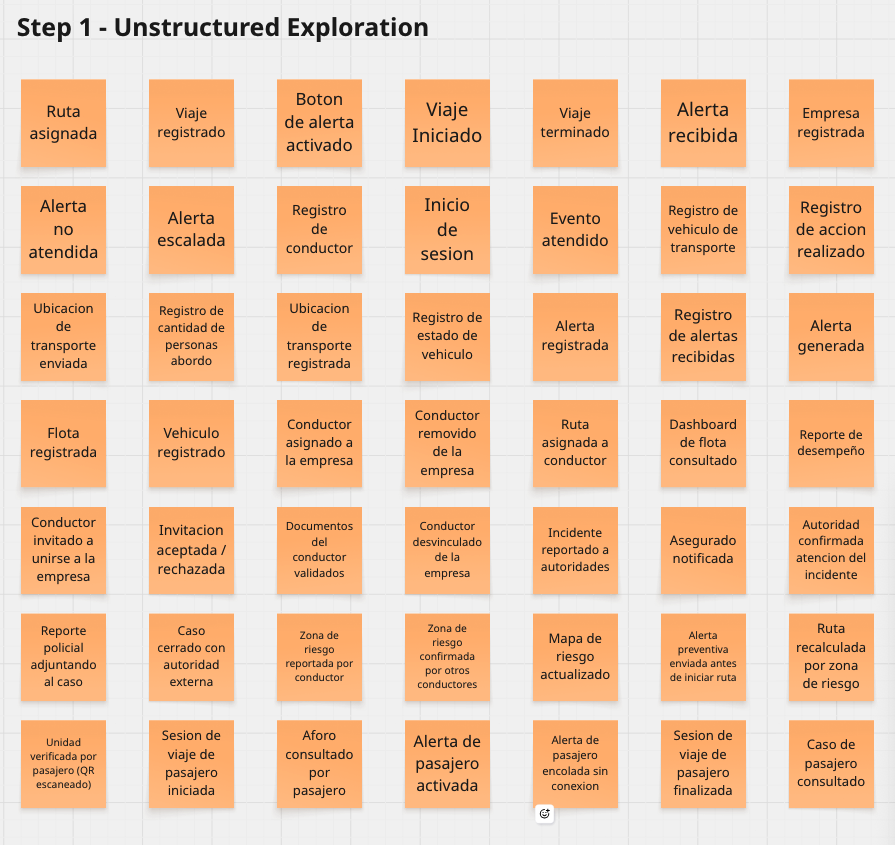
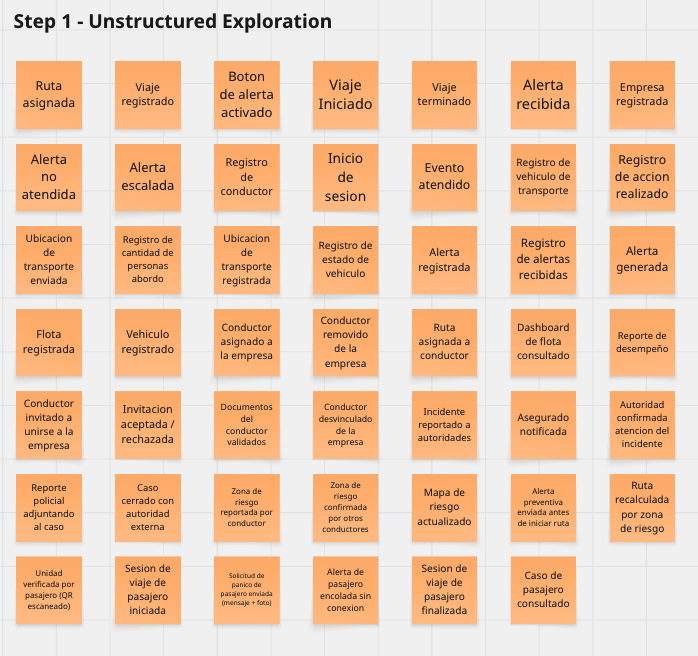
fix:added changes in data for event storming new img also added

diff --git a/report/02-chapter2.md b/report/02-chapter2.md
@@ -759,21 +759,17 @@ relaciones y patrones de integración entre todos los contexts identificados.
 
 El proceso de EventStorming de nivel general se desarrolló en la sección
 2.3.5 (Big Picture EventStorming), donde se identificaron los eventos de
-negocio para los flujos de generación y atención de alertas, gestión de
-flota, escalamiento externo, prevención por zonas de riesgo y verificación de
-pasajeros. A partir de ese modelo, el equipo avanzó hacia un análisis de
-mayor detalle para identificar los Bounded Contexts candidatos de la
-solución.
+negocio para los flujos de emergencia del conductor, registro y viaje del
+pasajero, solicitudes de pánico de pasajeros con umbral y aprobación de la
+empresa, gestión de flota, escalamiento externo y prevención por zonas de
+riesgo. A partir de ese modelo, el equipo avanzó hacia un análisis de mayor
+detalle para identificar los Bounded Contexts candidatos de la solución.
 
 <img src="../docs/bigPicture/Step 1.png">
 
-<img src="../docs/bigPicture/Step 2p1.png">
+<img src="../docs/bigPicture/Step 2.png">
 
-<img src="../docs/bigPicture/Step 2p2.png">
-
-<img src="../docs/bigPicture/Step 3p1.png">
-
-<img src="../docs/bigPicture/Step 3p2.png">
+<img src="../docs/bigPicture/Step 3.png">
 
 #### 2.5.1.1. Candidate Context Discovery
 
@@ -790,10 +786,16 @@ Como resultado, se identificaron siete Bounded Contexts candidatos:
 | 1 | Identity & Access Management | — (soporte transversal) |
 | 2 | Fleet & Workforce Management | Conductor asignado a la empresa |
 | 3 | Trip & Location Tracking | Viaje iniciado |
-| 4 | Passenger Journey & Occupancy | Unidad verificada por pasajero |
-| 5 | Safety Case Management | Botón de alerta activado |
+| 4 | Passenger Identity & Journey | Unidad verificada por pasajero |
+| 5 | Safety Case Management | Botón de alerta activado (conductor) / Grupo aprobado por supervisor (pasajero) |
 | 6 | External Escalation | Alerta escalada |
 | 7 | Risk Zone Intelligence | Zona de riesgo confirmada por otros conductores |
+
+Safety Case Management presenta dos eventos pivotales porque la emergencia
+puede originarse por dos caminos: la activación directa del conductor, que la
+crea de inmediato, y la aprobación del supervisor sobre un grupo de
+solicitudes de pasajeros que alcanzó el umbral. En ambos casos, la
+responsabilidad pasa a la empresa, que atiende la emergencia.
 
 El evento "Alerta escalada" (Safety Case Management) es el punto de conexión
 más claro con "Incidente reportado a autoridades" (External Escalation): ahí
@@ -807,7 +809,7 @@ independientes en lugar de fusionarlos.
 
 Para visualizar cómo colaboran los Bounded Contexts candidatos al resolver
 los casos de uso principales del negocio, el equipo aplicó la técnica de
-Domain Storytelling sobre cuatro historias representativas, seleccionadas
+Domain Storytelling sobre cinco historias representativas, seleccionadas
 por involucrar la interacción de más de un context.
 
 **Historia 1 — Conductor inicia un viaje:** el conductor inicia sesión en
@@ -818,34 +820,51 @@ ubicación.
 
 <img src="../docs/domainStorytelling/historia-1-conductor-inicia-viaje.jpg">
 
-**Historia 2 — Pasajero verifica la unidad y consulta aforo:** Passenger
-Journey & Occupancy consulta a Trip & Location Tracking si la unidad
-escaneada tiene un viaje activo; al confirmarse, crea la sesión de viaje del
-pasajero y consulta el aforo actual.
+**Historia 2 — Pasajero se registra, verifica el bus e inicia su viaje:** el
+pasajero registra su cuenta con DNI, foto de rostro y contraseña en Passenger
+Identity & Journey, que entrega sus credenciales a Identity & Access
+Management para el inicio de sesión. Luego escanea el QR del bus; Passenger
+Identity & Journey consulta a Trip & Location Tracking si el bus tiene un
+turno activo y, al confirmarse, crea el viaje del pasajero. Durante el viaje,
+Trip & Location Tracking provee la ubicación del bus para evaluar el cierre
+automático cuando el pasajero se aleja.
 
-<img src="../docs/domainStorytelling/historia-2-pasajero-verifica-unidad.jpg">
+<img src="../docs/domainStorytelling/historia-2-pasajero-verifica-unidad.png">
 
-**Historia 3 — Se activa una alerta de pánico:** el conductor o el pasajero
-activan el botón de pánico en Safety Case Management, que consulta la
-ubicación más reciente a Trip & Location Tracking y notifica el nuevo caso a
-Fleet & Workforce Management (Operations Central), quien registra la acción
-realizada.
+**Historia 3 — El conductor activa una emergencia inmediata:** el conductor
+activa el botón de pánico en Safety Case Management, que consulta la
+ubicación más reciente a Trip & Location Tracking, activa una emergencia
+Critical sin umbral ni aprobación y la notifica con prioridad máxima a Fleet
+& Workforce Management, cuyo supervisor inicia la atención y registra el
+resultado.
 
-<img src="../docs/domainStorytelling/historia-3-alerta-panico.jpg">
+<img src="../docs/domainStorytelling/historia-3-alerta-panico.png">
 
-**Historia 4 — Una alerta no atendida se escala externamente:** Safety Case
-Management detecta el evento pivotal "Alerta escalada" y notifica a External
-Escalation, que reporta el incidente a la autoridad correspondiente y
-confirma el cierre del caso de vuelta a Safety Case Management.
+**Historia 4 — Una emergencia no atendida se escala externamente:** Safety
+Case Management detecta el evento pivotal "Alerta escalada" y notifica a
+External Escalation, que reporta el incidente a la autoridad correspondiente
+y confirma el cierre del caso de vuelta a Safety Case Management.
 
 <img src="../docs/domainStorytelling/historia-4-alerta-escalada.jpg">
+
+**Historia 5 — Solicitud de pánico del pasajero con umbral y aprobación:** el
+pasajero envía una solicitud con mensaje y foto de evidencia desde Passenger
+Identity & Journey, que la entrega a Safety Case Management con el contexto
+del viaje. Safety Case Management registra la solicitud en el grupo del bus,
+contando una sola solicitud por cuenta; cuando tres cuentas distintas
+reportan dentro de cinco minutos, el grupo pasa a espera de aprobación y se
+solicita su revisión a Fleet & Workforce Management. Si el supervisor lo
+aprueba, se activa una emergencia High; en ambos casos, el estado queda
+visible para el pasajero.
+
+<img src="../docs/domainStorytelling/historia-5-solicitud-pasajero.png">
 
 #### 2.5.1.3. Bounded Context Canvases
 
 El equipo elaboró el Bounded Context Canvas de cada context candidato,
 priorizando según su importancia para el negocio. Los cuatro contexts core
 del sistema (Safety Case Management, Trip & Location Tracking, Passenger
-Journey & Occupancy y Fleet & Workforce Management) se desarrollaron con el
+Identity & Journey y Fleet & Workforce Management) se desarrollaron con el
 proceso iterativo completo (Context Overview Definition, Business Rules
 Distillation & Ubiquitous Language Capture, Capability Analysis, Capability
 Layering, Dependencies Capture y Design Critique). Los tres contexts
@@ -856,43 +875,64 @@ entrega.
 
 **Safety Case Management**
 
-Recibe, prioriza y gestiona el ciclo de vida completo de una alerta de
-pánico desde su activación hasta su cierre. Es el context core del sistema:
-concentra las capabilities de Alert Activation, Case Prioritization y Case
-Status Tracking. Depende de Trip & Location Tracking para la ubicación de la
-unidad y de Passenger Journey & Occupancy para el contexto del viaje cuando
-la alerta proviene de un pasajero; provee casos a Fleet & Workforce
+Gestiona el ciclo de vida de las emergencias desde dos caminos de origen: la
+emergencia inmediata del conductor, que se activa con prioridad Critical sin
+umbral ni aprobación, y las solicitudes de pánico de pasajeros, que requieren
+mensaje y foto, la corroboración de tres cuentas distintas en cinco minutos y
+la aprobación del supervisor para convertirse en una emergencia High. Se
+modela con dos aggregates, Emergency y PassengerRequestGroup, porque tienen
+ciclos de vida y reglas de consistencia distintos. Sus capabilities core son
+Driver Emergency Activation, Threshold Corroboration, Emergency Approval y
+Priority Ordering; esta última garantiza que la emergencia del conductor se
+atienda siempre antes que las revisiones de pasajeros. Recibe la ubicación
+de Trip & Location Tracking y las solicitudes de Passenger Identity &
+Journey, entrega emergencias y grupos pendientes a Fleet & Workforce
 Management y dispara el escalamiento hacia External Escalation.
 
 <img src="../docs/boundedContextCanvas/safety-case-management.png">
 
 **Trip & Location Tracking**
 
-Gestiona el ciclo de vida del viaje de una unidad: inicio, ubicación en
-tiempo real y cierre. Sus capabilities core son Location Ingestion y Trip
-Lifecycle. Depende de Fleet & Workforce Management para la asignación
-(conductor, bus, ruta), y es upstream crítico tanto de Safety Case
-Management como de Passenger Journey & Occupancy.
+Gestiona el turno del conductor, la ubicación en tiempo real y el conteo de
+pasajeros de cada bus. Se modela con tres aggregates: DriverShift
+(activación y cierre del turno), VehicleLocation (muestras de ubicación cada
+30 segundos) y BusOccupancy (eventos de entrada y salida del contador), ya
+que la ubicación y el conteo llegan con alta frecuencia y no deben bloquear
+el estado del turno. Sus capabilities core son Location Ingestion, Occupancy
+Tracking y Status Classification, que clasifica la ubicación y el conteo
+como Current, Stale o Unavailable. Depende de Fleet & Workforce Management
+para la asignación y es upstream crítico de Safety Case Management y de
+Passenger Identity & Journey; al cerrar un turno finaliza los viajes de
+pasajeros asociados, sin cerrar emergencias ni solicitudes abiertas.
 
 <img src="../docs/boundedContextCanvas/trip-location-tracking.png">
 
-**Passenger Journey & Occupancy**
+**Passenger Identity & Journey**
 
-Vincula a un pasajero con un viaje verificado y le da visibilidad del aforo
-de la unidad. Sus capabilities core son Unit Verification y Occupancy Query.
-Depende de Trip & Location Tracking para confirmar el viaje activo y el
-conteo de pasajeros, y origina la alerta de pánico del pasajero hacia Safety
-Case Management.
+Registra la identidad del pasajero (DNI, foto de rostro y contraseña) y lo
+vincula a un viaje verificado mediante el QR del bus. Sus capabilities core
+son Identity Registration, Unit Verification y Journey Lifecycle, que
+incluye el cierre automático del viaje cuando el pasajero se aleja más de
+100 metros del bus durante 60 segundos. La identidad del pasajero se
+mantiene en este context y no en Identity & Access Management, que solo
+guarda sus credenciales, para conservar ese Shared Kernel genérico. Expone
+además un historial de alertas del bus que no revela identidades, fotos ni
+mensajes. El aforo del bus no es accesible para el pasajero.
 
-<img src="../docs/boundedContextCanvas/passenger-journey-occupancy.png">
+<img src="../docs/boundedContextCanvas/passenger-identity-journey.png">
 
 **Fleet & Workforce Management**
 
-Administra la relación entre la empresa, sus conductores y su flota,
-asignando recursos a rutas y supervisando el desempeño operativo. Sus
-capabilities core son Shift Assignment y Case Response (ejercida como
-Operations Central). Provee la asignación que necesita Trip & Location
-Tracking y recibe los casos notificados por Safety Case Management.
+Administra la empresa, su flota y sus conductores, asigna turnos y actúa
+como Operations Central. Se modela con tres aggregates: Company (empresa,
+flota y capacidad de cada bus), Driver (invitación, validación de documentos
+y vinculación de conductores) y ShiftAssignment (asignación de conductor y
+bus a una ruta y periodo). Sus capabilities core son Shift Assignment y
+Emergency Review, mediante la cual el supervisor atiende emergencias y
+aprueba o rechaza los grupos de solicitudes de pasajeros. Provee la
+asignación a Trip & Location Tracking, recibe emergencias y grupos
+pendientes desde Safety Case Management y le devuelve la decisión de
+aprobación.
 
 <img src="../docs/boundedContextCanvas/fleet-workforce-management.png">
 
@@ -915,9 +955,9 @@ Collection, Report Corroboration y Preventive Alerting.
 
 **Identity & Access Management** *(nivel de detalle inicial)*
 
-Autentica a conductores y supervisores, y protege el acceso a las
-operaciones y datos según su rol y empresa. Capabilities: Authentication,
-Session Management y Access Control.
+Autentica a conductores, supervisores y pasajeros, y protege el acceso a las
+operaciones y datos según su rol, empresa y propiedad de la información.
+Capabilities: Authentication, Session Management y Access Control.
 
 <img src="../docs/boundedContextCanvas/identity-access-management.png">
 
@@ -927,18 +967,26 @@ A partir de las dependencias identificadas en cada Bounded Context Canvas, el
 equipo elaboró el Context Map de la solución, aplicando los patrones de
 relación entre Bounded Contexts establecidos en Domain-Driven Design.
 
-<img src="../docs/contextMapping/context-map.jpg">
+<img src="../docs/contextMapping/context-map.png">
 
 | Upstream | Downstream | Patrón | Justificación |
 |---|---|---|---|
-| Fleet & Workforce Management | Trip & Location Tracking | Customer/Supplier | Fleet provee la asignación (conductor, bus, ruta) que Trip necesita para iniciar el viaje. |
+| Fleet & Workforce Management | Trip & Location Tracking | Customer/Supplier | Fleet provee la asignación (conductor, bus, ruta) que Trip necesita para iniciar el turno. |
 | Trip & Location Tracking | Safety Case Management | Customer/Supplier | Safety Case consume la ubicación más reciente, con manejo propio de indisponibilidad (Stale/Unavailable) para no bloquearse ante una falla upstream. |
-| Trip & Location Tracking | Passenger Journey & Occupancy | Customer/Supplier | Passenger Journey depende de que Trip confirme el viaje activo antes de crear la sesión del pasajero. |
-| Passenger Journey & Occupancy | Safety Case Management | Customer/Supplier | La alerta del pasajero nace con el contexto de su sesión de viaje. |
-| Safety Case Management | Fleet & Workforce Management | Conformist | Fleet, como Operations Central, se adapta al modelo de caso definido por Safety Case Management sin negociar su estructura. |
+| Trip & Location Tracking | Passenger Identity & Journey | Customer/Supplier | Passenger Identity & Journey depende de que Trip confirme el turno activo antes de crear el viaje del pasajero, y de la ubicación del bus para el cierre automático. |
+| Passenger Identity & Journey | Safety Case Management | Customer/Supplier | Las solicitudes de pánico del pasajero llegan con el contexto de su viaje, su mensaje y su foto de evidencia. |
+| Safety Case Management | Fleet & Workforce Management | Conformist | Fleet, como Operations Central, se adapta al modelo de emergencia y de grupo de solicitudes definido por Safety Case Management sin negociar su estructura. |
+| Fleet & Workforce Management | Safety Case Management | Customer/Supplier | Safety Case depende de la decisión de aprobación o rechazo del supervisor para convertir un grupo de solicitudes en una emergencia. |
 | Safety Case Management | External Escalation | Anti-Corruption Layer | External Escalation traduce el modelo interno de caso al formato que espera una autoridad externa, aislando el modelo propio de un sistema que el equipo no controla. |
 | Risk Zone Intelligence | Trip & Location Tracking | Published Language | Risk Zone publica información de zonas de riesgo de forma informativa, sin una dependencia transaccional fuerte. |
-| Identity & Access Management | Fleet & Workforce Management, Trip & Location Tracking, Safety Case Management, Passenger Journey & Occupancy | Shared Kernel | Todos los contexts comparten el mismo modelo de identidad y sesión, al ser infraestructura transversal y no lógica de negocio propia de cada context. |
+| Identity & Access Management | Fleet & Workforce Management, Trip & Location Tracking, Safety Case Management, Passenger Identity & Journey | Shared Kernel | Todos los contexts comparten el mismo modelo de autenticación y sesión, al ser infraestructura transversal y no lógica de negocio propia de cada context. |
+
+La relación entre Safety Case Management y Fleet & Workforce Management
+aparece en ambos sentidos porque corresponde a dos flujos distintos: Safety
+Case Management entrega emergencias y grupos pendientes que Fleet consume
+tal como están modelados (Conformist), mientras que la decisión de
+aprobación del supervisor es la que Safety Case Management necesita para
+activar una emergencia de pasajero (Customer/Supplier).
 
 ### 2.5.3. Software Architecture
 
@@ -1041,6 +1089,8 @@ Ante una pérdida de conectividad, la aplicación mantiene los envíos pendiente
 ## 2.6. Tactical-Level Domain-Driven Design
 
 A partir de los siete Bounded Contexts identificados en el nivel estratégico (sección 2.5), esta sección detalla el diseño táctico de cada uno: los building blocks de su Domain Layer, la exposición de capacidades en la Interface Layer, la orquestación de casos de uso en la Application Layer y los mecanismos técnicos de la Infrastructure Layer. La comunicación entre contextos se realiza de forma asíncrona mediante eventos de dominio publicados en un Message Broker, respetando los patrones de integración establecidos en el Context Mapping (2.5.2).
+
+![DESIGN-LEVEL](../docs/designLevel/DesignLevelES.png)
 
 | # | Bounded Context | Capabilities core | Rol en el Context Map |
 | :--- | :--- | :--- | :--- |
